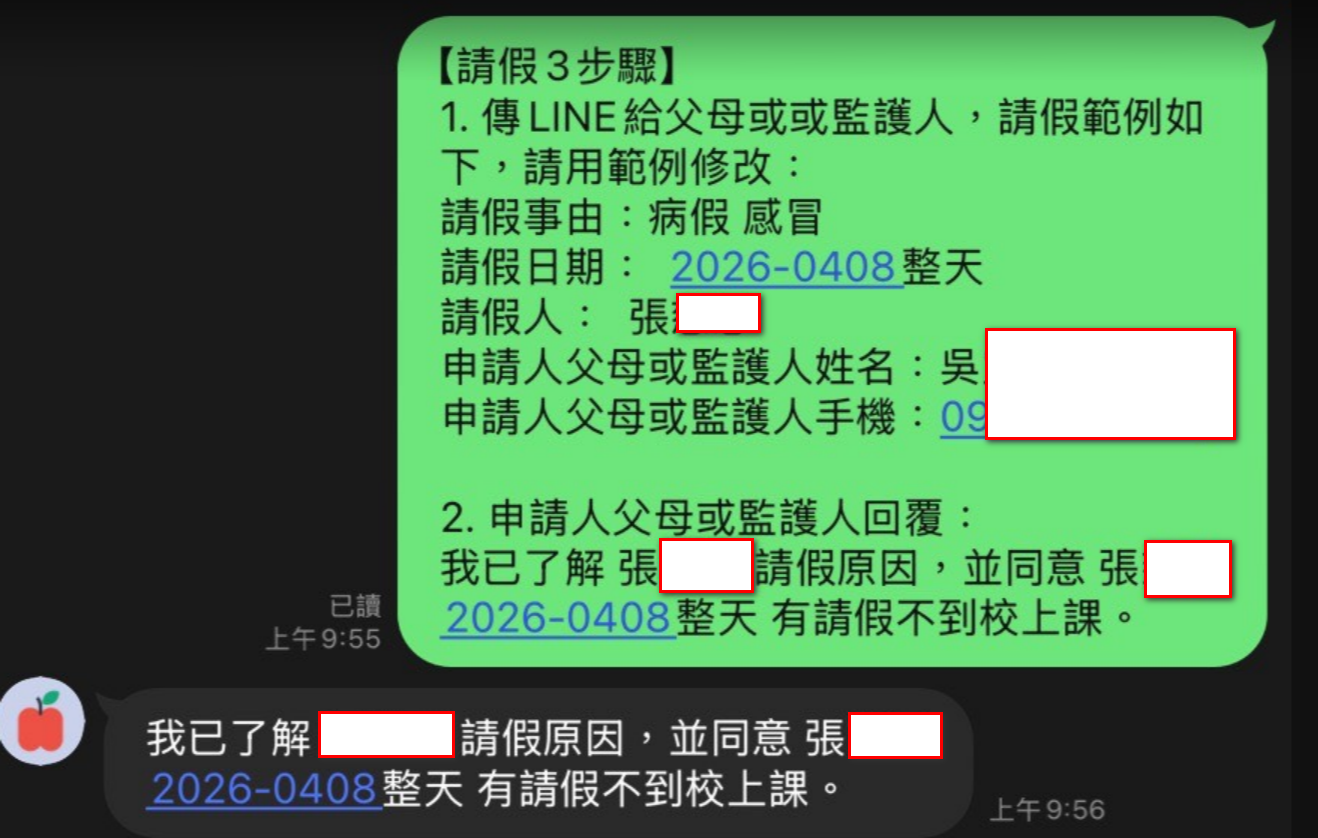
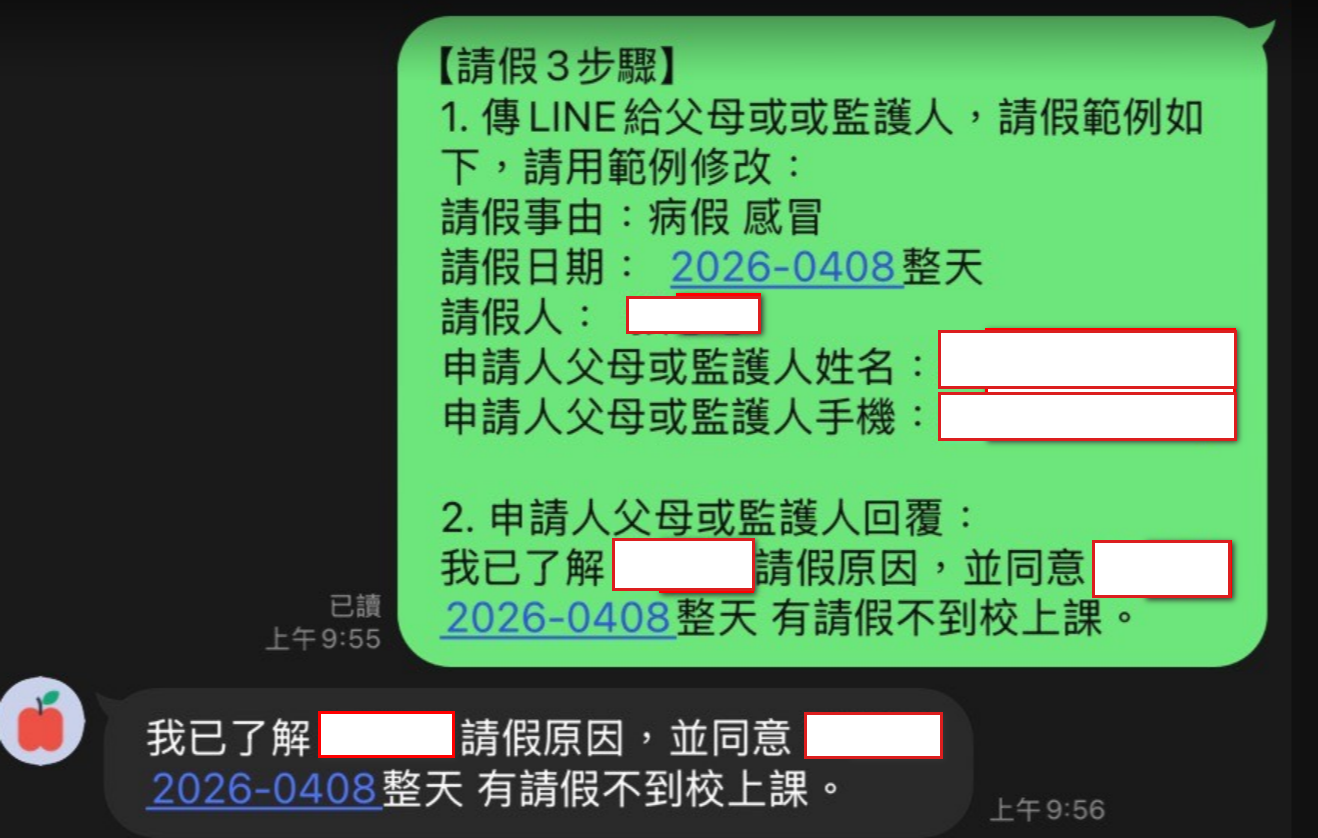
fix: 請假規範回覆句與欄位名稱依 LINE 範例統一；範例圖補遮姓氏與手機（PI 2026/10/22）
Claude-Session: https://claude.ai/code/session_01GYA9K6Yp6Rme6Ub4bCZdGK

diff --git a/README.md b/README.md
@@ -292,8 +292,8 @@
    ```
    請假事由：
    請假日期：
-   申請人：
-   申請人父母或監護人：
+   請假人：
+   申請人父母或監護人姓名：
    申請人父母或監護人手機：
    ```
 
@@ -302,17 +302,17 @@
    請假事由：出國玩、心情不好、其他…
    請假日期：2025-0421
    請假人：王小明
-   申請人父母或監護人：王大明（簽名）
+   申請人父母或監護人姓名：王大明（簽名）
    申請人父母或監護人手機：0933123321
    ```
 
 5. 如果不是住家裡，可用 LINE 拍照傳給父母，請父母回訊：
 
    ```
-   [監護人姓名] 已收到 [學生姓名] 的請假通知。
+   我已了解 [學生姓名] 請假原因，並同意 [學生姓名] [請假日期] 有請假不到校上課。
    ```
 
-   例如：王大明 已收到 王小明 的請假通知。
+   例如：我已了解 王小明 請假原因，並同意 王小明 2025-0421 整天 有請假不到校上課。
 
 6. 請務必通知父母或監護人，勿偽造 LINE 訊息。
 
